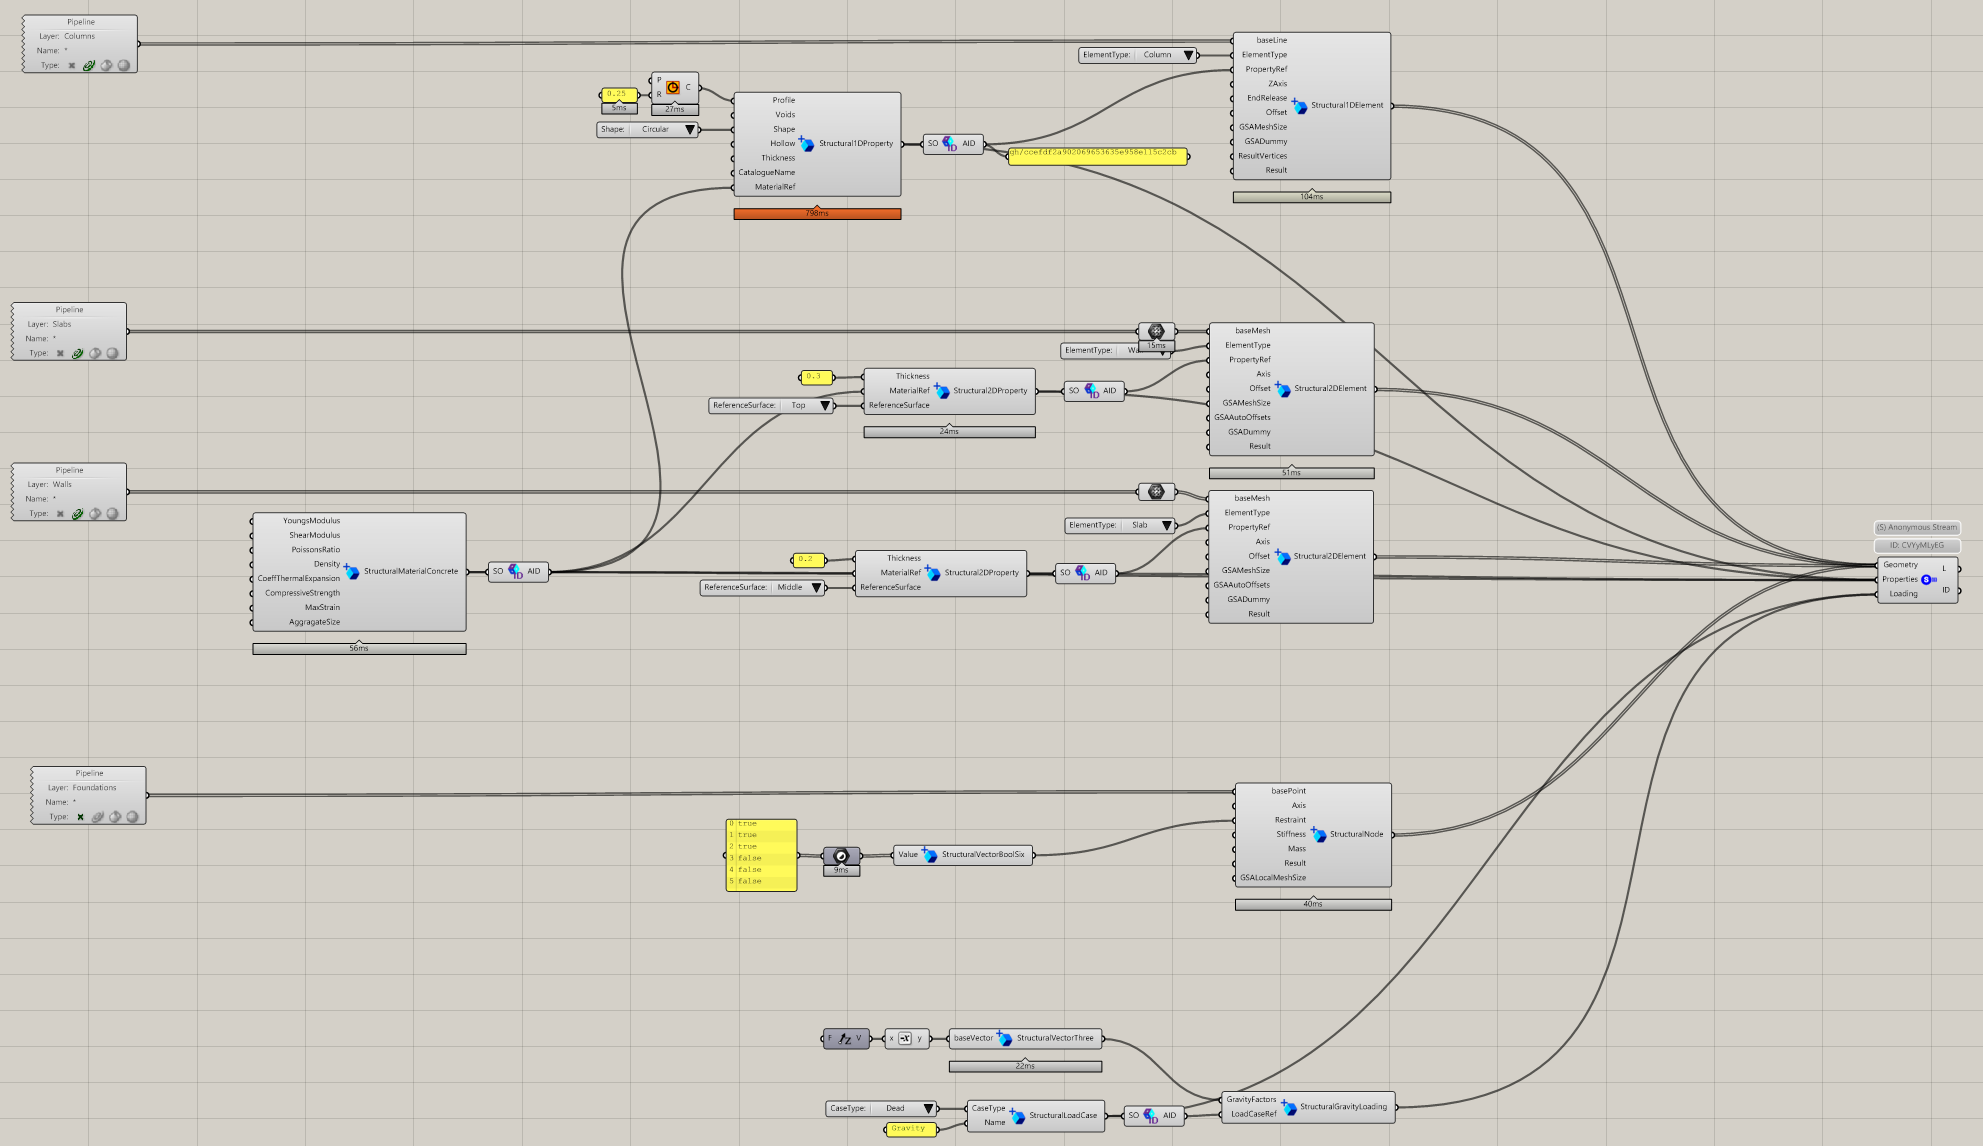
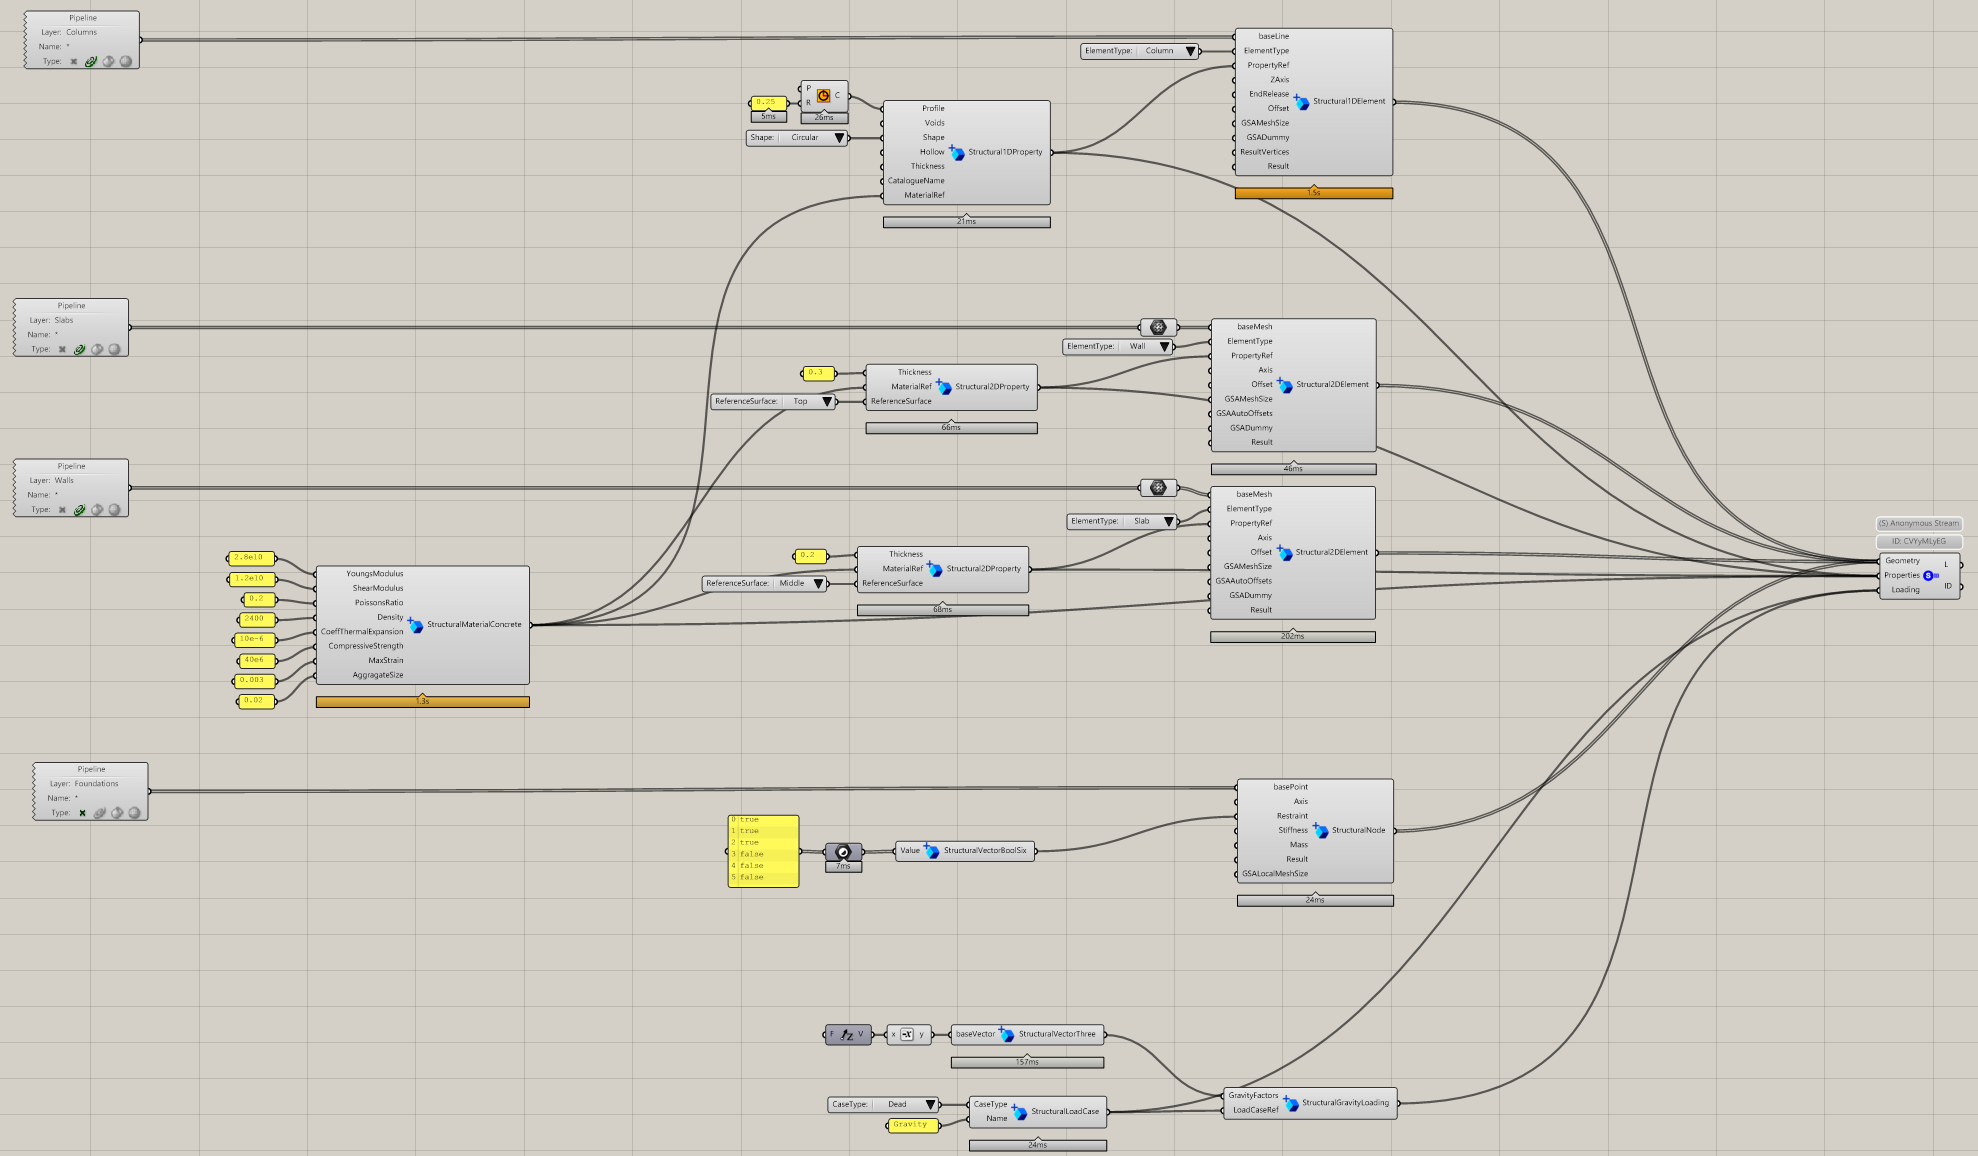
Updated docs to new gh plugin, removed search

diff --git a/_docs/01_grasshopper_sending.md b/_docs/01_grasshopper_sending.md
@@ -55,16 +55,13 @@ Note that the 2D element needs a mesh as its base geometry. This is not the fini
 
 Now we have created our basic geometrical features we need to create some analysis properties.
 
-It is at this point where we need to understand a little more about the Speckle data format. To mark each object as 'the same' over multiple stream updates each sender marks its objects with an 'application id'. This key gives us a handy way to identify any object, so instead of needing keys to specific tables (e.g. property id = 5) we can instead just refer to the application id to link one object to another.
-
-So the steps to create a 1d property and link it to a 1d element are:
+The steps to create a 1d property and link it to a 1d element are:
 
 * Create a `Structural1DProperty` using the `Schema Builder` component
 * Assign its key properties (section shape and profile)
-* Use the `Get ApplicationId` component to find out the Structural1DProperty's identifier
-* Wire that id to the PropertyRef input of the Structural1DProperty
+* Wire the output of the `Structural1DProperty` to the `PropertyRef` input of the `Structural1DElement`.
 
-The `Get ApplicationId` component is not in the main Speckle Grasshopper plugin. Instead use the [Arup version of the Speckle Grasshopper plugin](https://www.youtube.com/watch?v=oHg5SJYRHA0).
+The above process will only work if you are using the SpeckleGrasshopper-cx components. [The latest version of these components can be found on the GitHub releases page](https://github.com/arup-group/SpeckleRhino/releases)
 {: .notice--warning}
 
 ![Assign 1d prop]({{site.baseurl}}/assets/images/user_docs/grasshopper/gh_assign_1d_prop.png)
